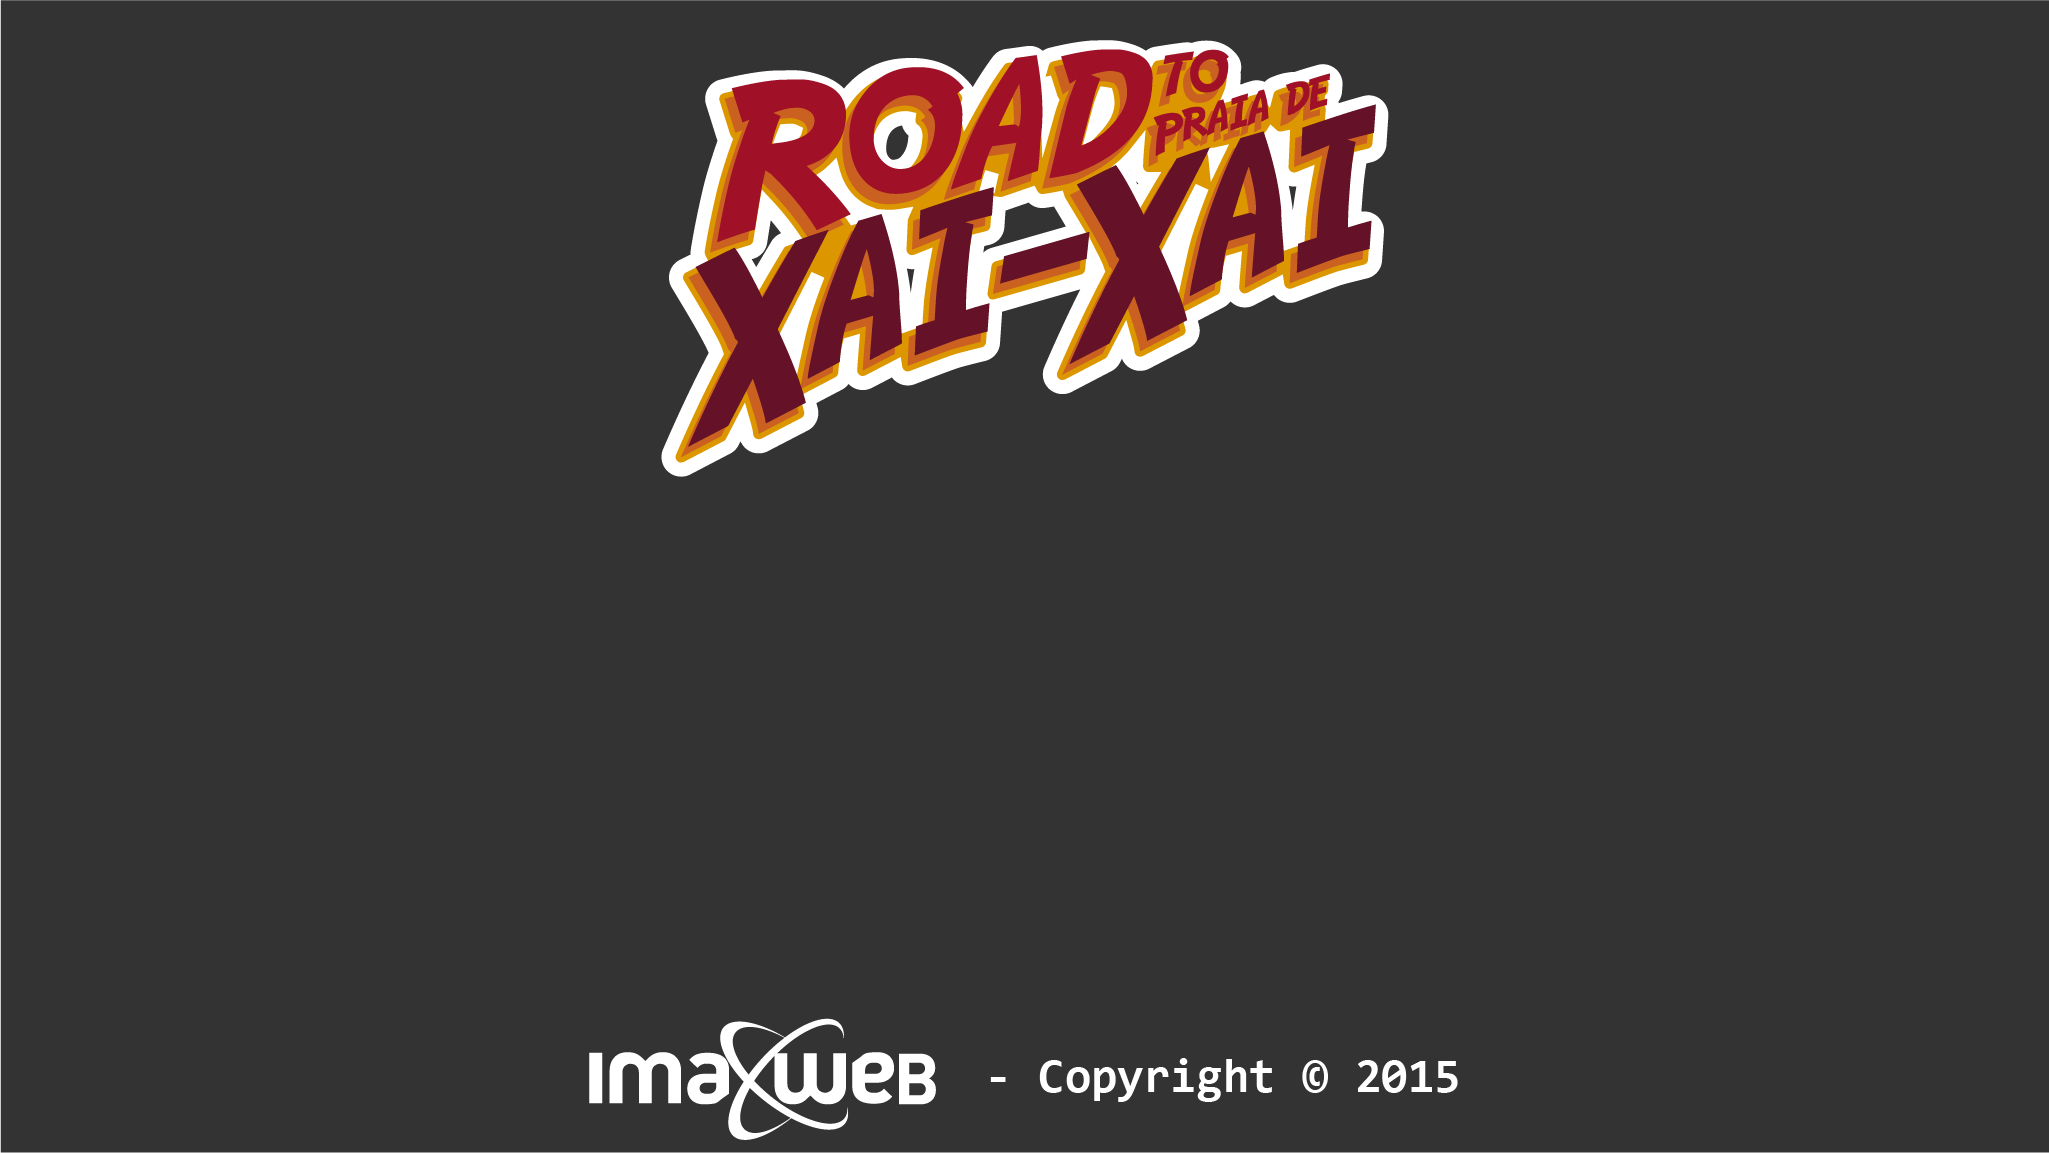
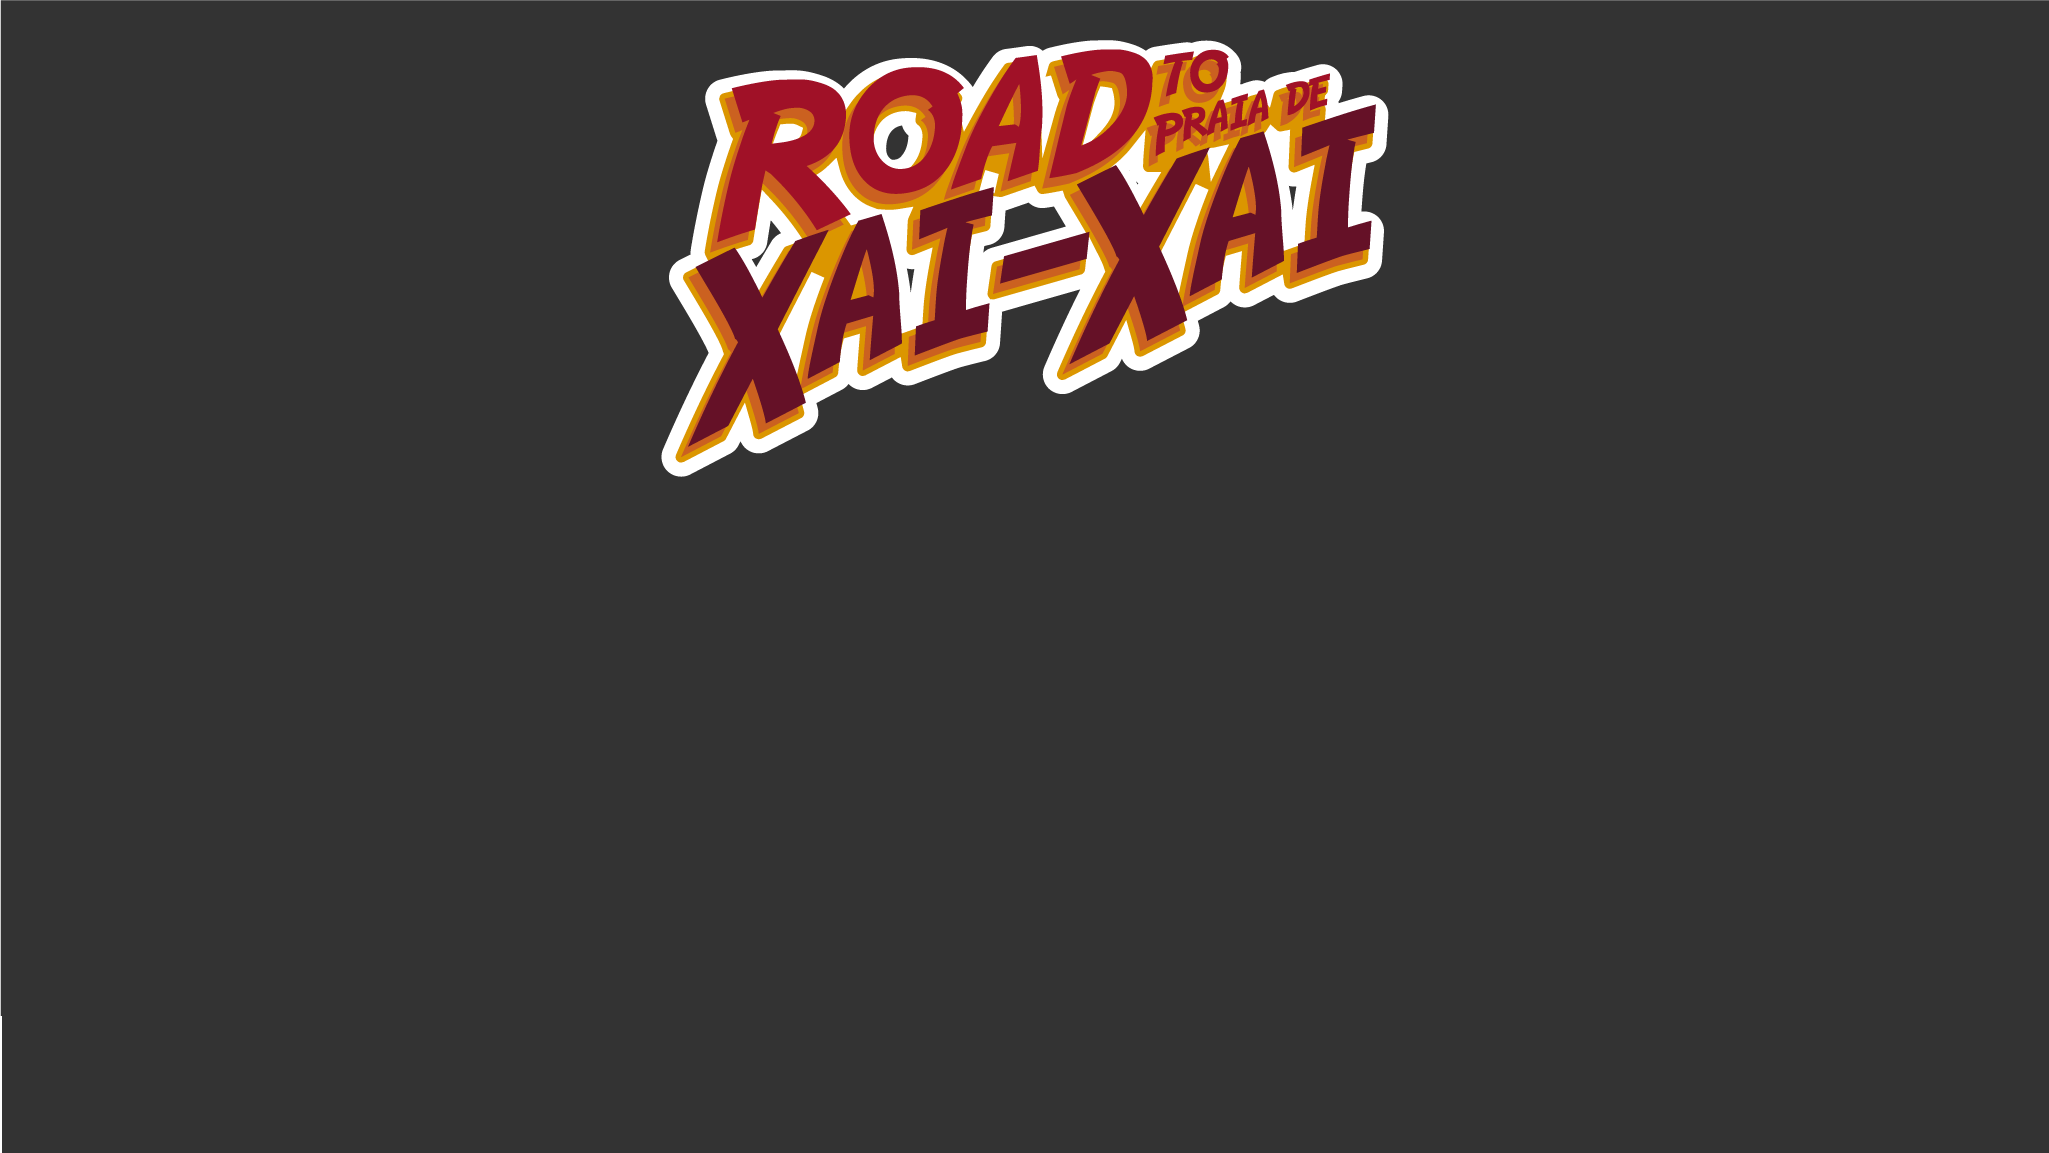
Cambios diseño fuera scrollify

Changed region(s): [[0.0, 0.8742, 1.0, 1.0], [0.4998, 0.9055, 0.7184, 0.9679]]

diff --git a/scripts/main.js b/scripts/main.js
@@ -4,15 +4,6 @@ $(function(){
 	getLocation();
 	setupDefaultLanguage();
 	getTotalKgObtained();
-	$.scrollify({
-		section: '.panel',
-		offset: 0,
-		after:function(){
-			var panelId = $($.scrollify.current()).attr('scroll-panel');
-			$('.navbar-nav').children().removeClass('active');
-			$("a[scroll-panel='"+panelId+"']").parent().addClass('active');
-		}
-	});
 	p = punctuation;
 	v = message_id;
 	if (p > 0 ){
@@ -20,7 +11,7 @@ $(function(){
 		if (v > 0){
 			$('#message_id').val(v);
 		}
-		$.scrollify.move("#4");
+		clickMenu(4);
 	}
 	socialText = encodeURIComponent(getTranslation('social_initial'));
 	if(socialText != '') changeSocialLinks(socialText);
@@ -157,13 +148,13 @@ function repaintDoughnut(first){
 	data[0].label = getTranslation('graphic.collected');
 	data[1].label = getTranslation('graphic.remaining');
 	var ctx = document.getElementById("myChart").getContext("2d");
-	//$(ctx).html('');
 	var myDoughnutChart = new Chart(ctx).Doughnut(data,options);
 }
 
-function clickMenu(id,elem){
-	$.scrollify.move('#'+id);
+function clickMenu(id){
+	$(document).scrollTop( $("#section"+id+"]").offset().top );
 }
+
 function changeSocialLinks(newtext) {
 
 	$('.twitter-intent').attr('href','https://twitter.com/intent/tweet?text='+newtext+'&url=http://www.imaweb.net/xmas2015').attr('target','_blank');

diff --git a/css/main.css b/css/main.css
@@ -177,8 +177,8 @@ div.ratio-wrapper-content {
 }
 
 .play_button{
-    height: 50%;
-    width: auto;
+  height: 50%;
+  width: auto;
 }
 
 .video-wrapper {
@@ -288,12 +288,13 @@ div.ratio-wrapper-content {
   color: #ccc;
 }
 .logo_top {
-  width: 80px;
-  margin-top: -5px;
+  width: 280px;
+  margin-top: -7px;
 }
 .iw_top img{
-  width: 140px;
-  padding: 8px 8px 0;
+  width: 80px;
+  padding: 13px 0 0 5px;
+  opacity: 0.8;
 }
 .flag {
   width: 20px;
@@ -396,7 +397,8 @@ div.ratio-wrapper-content {
   background-color: #651127;
 }
 .item .play {
-  top: 350px;
+  top: 7em;
+  z-index: 999;
 }
 .graphic {
   background-color: #13050a;
@@ -560,7 +562,10 @@ div.ratio-wrapper-content {
     width: 90%;
   }
   .item .play {
-    top: 240px;
+    top: 6em;
+  }
+  .carousel-indicators {
+    bottom: 40px;
   }
 }
 
@@ -568,13 +573,20 @@ div.ratio-wrapper-content {
   div.inner {
     width: 90%;
   }
+  .iw_top img{
+    padding: 13px 0 0 15px;
+  }
   .play {
     font-size: 2em;
   }
   .item .play {
-    top: 165px;
+    top: 6em;
   }
   .carousel-caption {
-  font-size: 1em;
+    font-size: 0.9em;
+    top: -5px;
+  }
+  .carousel-indicators {
+    display: none;
   }
 }

diff --git a/game/splashes/splash1.js b/game/splashes/splash1.js
@@ -31,4 +31,4 @@ function create()
 }
 
 World.addState( 'Splash1', { preload: preload, create: create } );
-World.goToLevel( 'Splash1' );
+World.goToLevel( 'Level1' );

diff --git a/index.php b/index.php
@@ -17,7 +17,6 @@
 		<script src="https://cdnjs.cloudflare.com/ajax/libs/jquery/2.1.4/jquery.min.js"></script>
 		<script src="https://maxcdn.bootstrapcdn.com/bootstrap/3.3.5/js/bootstrap.min.js" integrity="sha512-K1qjQ+NcF2TYO/eI3M6v8EiNYZfA95pQumfvcVrTHtwQVDG+aHRqLi/ETn2uB+1JqwYqVG3LIvdm9lj6imS/pQ==" crossorigin="anonymous"></script>
 		<script src="https://cdnjs.cloudflare.com/ajax/libs/Chart.js/1.0.2/Chart.min.js"></script>
-		<script src="scripts/jquery.scrollify.min.js"></script>
 		<script type="text/javascript" src="scripts/language.js" ></script>
 		<script type="text/javascript" src="scripts/main.js" ></script>
 		<script type="text/javascript">
@@ -25,7 +24,7 @@
 			var message_id = parseInt("<?= isset( $_POST['message_id'] ) ? $_POST['message_id'] : 0; ?>");
 		</script>
 	</head>
-	<body>
+	<body data-spy="scroll" data-target=".navbar" offset="0">
 		<nav class="navbar navbar-default navbar-fixed-top">
 			<div class="container-fluid">
 				<div class="navbar-header">
@@ -33,14 +32,14 @@
 						<span class="sr-only">Toggle navigation</span>
 						<span class="icon-bar"></span><span class="icon-bar"></span><span class="icon-bar"></span>
 					</button>
-					<a class="navbar-brand" href="index.php"><img class="logo_top" src="img/logo_xl.png"></a>
+					<a class="navbar-brand" href="index.php"><img class="logo_top" src="img/top_header_web.png"></a>
 				</div>
 				<div class="collapse navbar-collapse navbar-right" id="bs-example-navbar-collapse-6">
 					<ul class="nav navbar-nav">
-						<li class="active"><a scroll-panel="1" id="MenuHome" onclick="clickMenu(1,this)">Home</a></li>
-						<li><a scroll-panel="2" id="MenuRules" onclick="clickMenu(2,this)">Rules</a></li>
-						<li><a scroll-panel="3" id="MenuGame" onclick="clickMenu(3,this)">Game</a></li>
-						<li><a scroll-panel="4" id="MenuThanks" onclick="clickMenu(4,this)">Thanks</a></li>
+						<li class="active"><a href="#section1" id="MenuHome" >Home</a></li>
+						<li><a href="#section2"  id="MenuRules" >Rules</a></li>
+						<li><a href="#section3"  id="MenuGame" >Game</a></li>
+						<li><a href="#section4"  id="MenuThanks" >Thanks</a></li>
 						<li class="dropdown">
 							<a id="lang-dropdown-nav" href="#" class="dropdown-toggle" data-toggle="dropdown" role="button" aria-haspopup="true" aria-expanded="false">
 								<span id="language">Language</span> <span class="caret"></span>
@@ -51,28 +50,28 @@
 								<li><a id="PT" onclick="changeLan(this.id)"><img class="flag" src="img/flag_pt.png"> - PT </a></li>
 							</ul>
 						</li>
-						<a href="http://www.imaweb.net" title="IMAWEB" target="_blank" class="iw_top"><img src="img/logo_imaweb-w.png"></a>
+						<a href="http://www.imaweb.net" title="IMAWEB" target="_blank" class="iw_top"><img src="img/logo_imaweb-w2.png"></a>
 					</ul>
 				</div>
 			</div>
 		</nav>
-		<section class="panel logo" scroll-panel="1">
+		<section class="panel logo" id="section1">
 			<div class="inner">
-				<h1 class="logo_main"><img class="img-responsive" src="img/logo_xl.png"></h1>
+				<h1 class="logo_main"><img class="img-responsive" src="img/logo_main.png"></h1>
 				<!-- <h1 id="titleXmas">XMAS IMAWEB 2015</h1> -->
 				<div class="welcome" id="welcome">
 					welcome
 				</div>
 				<div class="welcome2">
-					<a scroll-panel="2" onclick="clickMenu(2,this)" id="rules">Rules</a> | <a scroll-panel="3" onclick="clickMenu(3,this)" id="start">start</a>
+					<a href="#section2" id="rules">Rules</a> | <a href="#section3" id="start">start</a>
 				</div>
 				<!-- <div class="about"><a href="http://www.imaweb.net" title="IMAWEB" target="_blank"><img src="img/logo_imaweb-w.png"></a></div> -->
 			</div>
 		</section>
 
-		<section class="panel explanation" scroll-panel="2">
+		<section class="panel explanation" id="section2">
 			<div class="inner">
-				<h2><span id="rules_carousel">rules</span></h2>
+				<h2><span id="rules">rules</span></h2>
 				<div id="carousel-levels" class="carousel slide" data-ride="carousel" data-interval="false" data-wrap="false">
 					<!-- Indicators -->
 					<ol class="carousel-indicators">
@@ -136,20 +135,20 @@
 			</div>
 		</section>
 
-		<section class="panel game" scroll-panel="3">
+		<section class="panel game" id="section3">
 			<div class="inner">
 				<div class="middle">
 				<h2><span id="play">play</span></h2>
 					<div class="ratio-wrapper">
 						<div class="ratio-wrapper-content">
-							<a href="game.html" class="play" id="start_game">start</a>
+							<a href="game.html" class="play" id="start">start</a>
 						</div>
 					</div>
 				</div>
 			</div>
 		</section>
 
-		<section class="panel final" id="panel_final" scroll-panel="4">
+		<section class="panel final" id="section4">
 			<div class="inner">
 				<div class="middle">
 					<div class="row">
